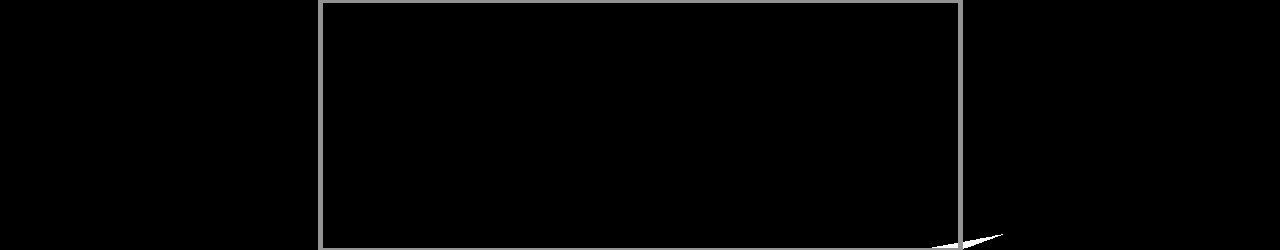
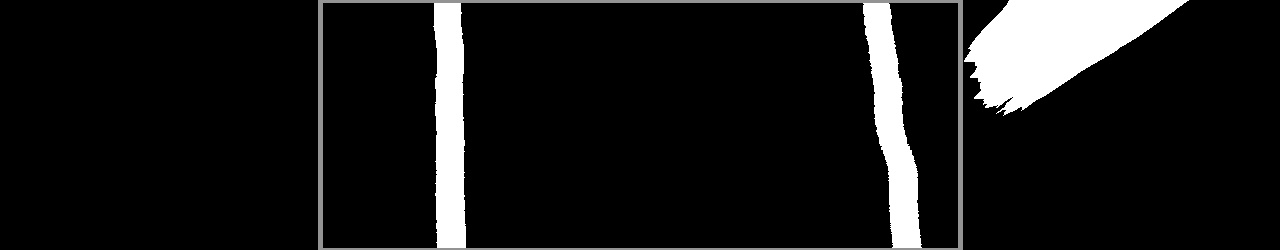
Add rl lane logic and organize code

Changed region(s): [[0.75, 0.0, 0.9375, 0.448], [0.6562, 0.0, 0.7812, 1.0], [0.3125, 0.0, 0.375, 1.0]]

diff --git a/src/line_follower/line_follower/line_follower.py b/src/line_follower/line_follower/line_follower.py
@@ -83,14 +83,14 @@ class LineFollower(Node):
         #cv_image = bridge.imgmsg_to_cv2(col_img_raw, desired_encoding='bgr8')
         
         # Use sample image for testing
-        cv_image = cv2.imread('./src/line_follower/line_follower/frame0001.jpg')
+        cv_image = cv2.imread('./src/line_follower/line_follower/frame0084.jpg')
 
         # Test if image is converted to jpeg
         #cv2.imwrite('./src/line_follower/line_follower/test_image.jpeg', cv_image)
 
         # Crop image by half
         cv_image = self.crop_image(cv_image)
-        #cv2.imwrite('./src/line_follower/scripts/camera_image.jpeg', cv_image)
+        #cv2.imwrite('./src/line_follower/line_follower/crop_image.jpeg', cv_image)
 
         # Lane instance 
         lane_obj = Lane(cv_image)
@@ -108,7 +108,7 @@ class LineFollower(Node):
 
         # Find lane line pixels using the sliding window method 
         polyfit_found, left_fit, right_fit = lane_obj.get_lane_line_indices_sliding_windows(
-        plot=False, synthesizeRightLane=True)
+        plot=False, synthesizeRightLane=False)
 
         # Return if no polyfits are found
         if polyfit_found != True:
@@ -116,9 +116,11 @@ class LineFollower(Node):
           print("No lines detected. Move the car!")
           return 
 
-        # Fill in the lane line
-        lane_obj.get_lane_line_previous_window(left_fit, right_fit, plot=False, synthesizeRightLane=True)
+        # Fill in the lane line (visualization)
+        # lane_obj.get_lane_line_previous_window(left_fit, right_fit, plot=True, synthesizeRightLane=False)
+        # frame_with_lane_lines = lane_obj.overlay_lane_lines(plot=True)
 
+        # Calculate center offset
         center_offset = lane_obj.calculate_car_position(print_to_terminal=True)
 
         # Calculate steering angle (P-controller)
@@ -221,7 +223,7 @@ class Lane:
     self.no_of_windows = 10
 
     # Adjusted fractions to floats. Otherwise zero. (Hypnos)
-    self.margin = int(0.08333 * width)  # Window width is +/- margin 
+    self.margin = int(0.05333 * width)  # Window width is +/- margin 
     self.minpix = int(0.04166 * width)  # Min no. of pixels to recenter window
 
     # Best fit polynomial lines for left line and right line of the lane
@@ -289,11 +291,17 @@ class Lane:
     # Fit polynomial curves to the real world environment
     left_fit_cr = np.polyfit(self.lefty * self.YM_PER_PIX, self.leftx * (
       self.XM_PER_PIX), 2)
-    ### ADDED CODE: syntesize right lane from left ###
+
+    # Force synthesize right lane
     if synthesizeRightLane==True:
       self.righty = self.lefty
       self.rightx = self.leftx + 400
-    ### END ADDED CODE ###
+    
+    # Automatic right lane syntehsis in case right is empty
+    if self.righty.size == 0:
+      self.righty = self.lefty
+      self.rightx = self.leftx + 400
+
     right_fit_cr = np.polyfit(self.righty * self.YM_PER_PIX, self.rightx * (
       self.XM_PER_PIX), 2)
              
@@ -412,18 +420,23 @@ class Lane:
     self.leftx = leftx
     self.rightx = rightx
     self.lefty = lefty
-    self.righty = righty        
-    ### ADDED CODE: syntesize right lane from left ###
-    if synthesizeRightLane == True:
-      righty = lefty
-      rightx = leftx + 400
-    ### END ADDED CODE ###
+    self.righty = righty
 
-    # Fit a second order polynomial curve to each lane line
-    left_fit = np.polyfit(lefty, leftx, 2)
-    right_fit = np.polyfit(righty, rightx, 2)
-    self.left_fit = left_fit
-    self.right_fit = right_fit
+    # Force synthesize right lane
+    if synthesizeRightLane == True:
+      self.righty = self.lefty
+      self.rightx = self.leftx + 400
+    
+    # Automatic right lane syntehsis in case right is empty
+    if self.righty.size == 0:
+      self.righty = self.lefty
+      self.rightx = self.leftx + 400
+
+    # # Fit a second order polynomial curve to each lane line
+    # left_fit = np.polyfit(lefty, leftx, 2)
+    # right_fit = np.polyfit(righty, rightx, 2)
+    # self.left_fit = left_fit
+    # self.right_fit = right_fit
          
     # Create the x and y values to plot on the image
     ploty = np.linspace(
@@ -476,15 +489,19 @@ class Lane:
       ax1.set_title("Original Frame")  
       ax2.set_title("Warped Frame")
       ax3.set_title("Warped Frame With Search Window")
-      plt.show()
+      # Turn off interactive mode
+      plt.ioff()
+      # Save the plot as an image file
+      plt.savefig('./src/line_follower/line_follower/lane_line_image.png')
              
   def get_lane_line_indices_sliding_windows(self, plot=False, synthesizeRightLane=True):
     """
     Get the indices of the lane line pixels using the 
     sliding windows technique.
          
-    :param: plot Show plot or not
-    :return: Best fit lines for the left and right lines of the current lane 
+    :param: plot write plot or not
+    :return: Best fit lines for the left and right lines of the current lane
+    :return: If a poly fit was found
     """
     # Sliding window width is +/- margin
     margin = self.margin
@@ -556,11 +573,6 @@ class Lane:
     lefty = nonzeroy[left_lane_inds] 
     rightx = nonzerox[right_lane_inds] 
     righty = nonzeroy[right_lane_inds]
-  
-    # Syntesize right lane from left (TODO: build logic to synthesize right if not found)
-    if(synthesizeRightLane == synthesizeRightLane):
-      righty = lefty
-      rightx = leftx + 400
 
     # Return if no points were found
     if lefty.size == 0:
@@ -570,6 +582,17 @@ class Lane:
       return self.polyfit_found, self.left_fit, self.right_fit
     else: self.polyfit_found = True
 
+    # Force synthesize right lane
+    if synthesizeRightLane == True:
+      righty = lefty
+      rightx = leftx + 400
+
+    # Automatic right lane syntehsis in case right is empty
+    if righty.size == 0:
+      print('Only left lane detected!')
+      righty = lefty
+      rightx = leftx + 400
+    
     # Fit a second order polynomial curve to the pixel coordinates for
     # the left and right lane lines   
     left_fit = np.polyfit(lefty, leftx, 2)
@@ -609,7 +632,10 @@ class Lane:
       ax1.set_title("Original Frame")  
       ax2.set_title("Warped Frame with Sliding Windows")
       ax3.set_title("Detected Lane Lines with Sliding Windows")
-      plt.show()        
+      # Turn off interactive mode
+      plt.ioff()
+      # Save the plot as an image file
+      plt.savefig('./src/line_follower/line_follower/slidingwin_polyfit_image.png')     
              
     return self.polyfit_found, self.left_fit, self.right_fit
  
@@ -740,7 +766,10 @@ class Lane:
       ax2.imshow(cv2.cvtColor(result, cv2.COLOR_BGR2RGB))
       ax1.set_title("Original Frame")  
       ax2.set_title("Original Frame With Lane Overlay")
-      plt.show()   
+      # Turn off interactive mode
+      plt.ioff()
+      # Save the plot as an image file
+      plt.savefig('./src/line_follower/line_follower/lane_image.png')    
  
     return result           
      
@@ -772,17 +801,12 @@ class Lane:
       self.warped_frame, 127, 255, cv2.THRESH_BINARY)           
     self.warped_frame = binary_warped
 
-    ### ADDED CODE: write image for diagnosis ###
-    #cv2.imwrite("bev.jpg", self.warped_frame)
-
-    # Display the perspective transformed (i.e. warped) frame
+    # Write the perspective transformed (i.e. warped) frame
     if plot == True:
       warped_copy = self.warped_frame.copy()
       warped_plot = cv2.polylines(warped_copy, np.int32([
                     self.desired_roi_points]), True, (147,20,255), 3)
       cv2.imwrite('./src/line_follower/line_follower/bev_image.jpeg', warped_plot)
-
-
 
     return self.warped_frame        
 
